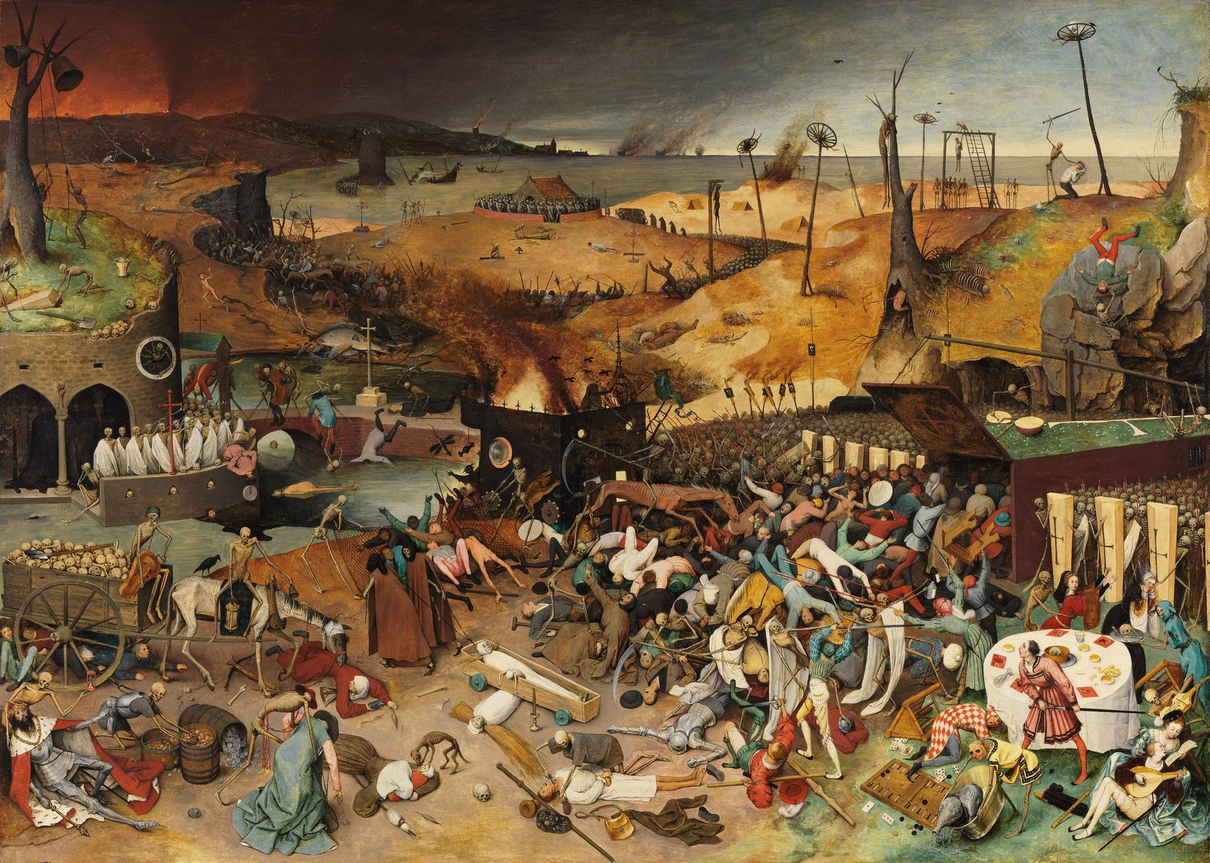
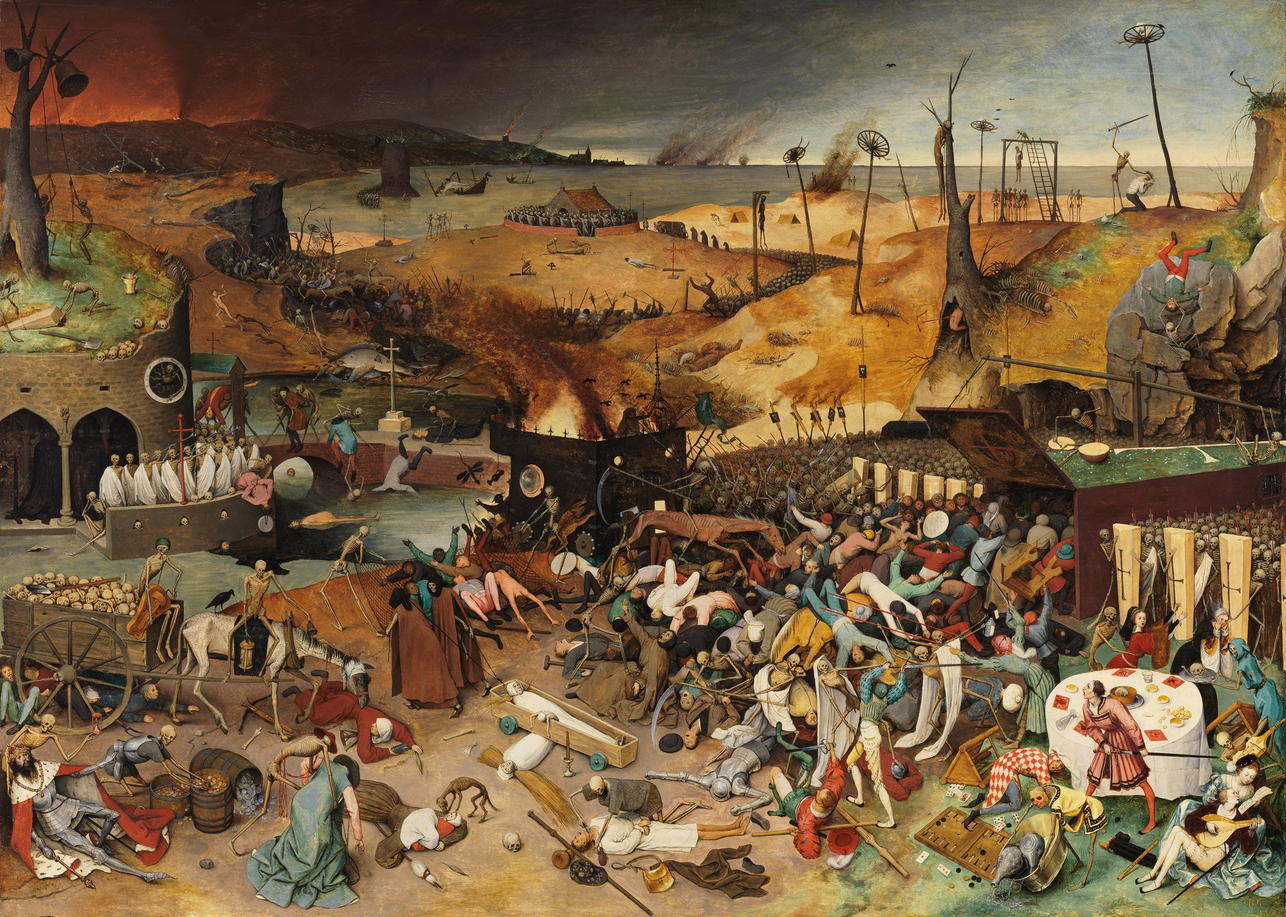
Full-resolution pieces: larger source pictures and native-resolution piece rendering when zoomed
- 27 paintings replaced with 2400-2560px versions, 3 Canva scenes replaced with 2x upscaled versions
- Overview cache sized to the screen; native-resolution pieces built on demand (bounded LRU) when zoomed in

Claude-Session: https://claude.ai/code/session_01X4jKmC36k778ncv5ZPyc4q

diff --git a/public/index.html b/public/index.html
@@ -218,7 +218,7 @@ const CATS=[
   {id:'fantasy',label:'Fantasy'},
   {id:'fairytales',label:'Fairy tales'},
   {id:'landscapes',label:'Landscapes'}];
-const IMAGES=[{"cat": "halloween", "slug": "haunted-village", "title": "Haunted Hollow Village", "artist": "Original art · made with Canva AI", "year": "", "w": 1456, "h": 1088, "page": "", "isNew": true}, {"cat": "halloween", "slug": "monster-ball", "title": "The Monster Ball", "artist": "Original art · made with Canva AI", "year": "", "w": 1456, "h": 1088, "page": "", "isNew": true}, {"cat": "halloween", "slug": "witch-kitchen", "title": "The Witch's Kitchen", "artist": "Original art · made with Canva AI", "year": "", "w": 1456, "h": 1088, "page": "", "isNew": true}, {"cat": "halloween", "slug": "midnight-graveyard", "title": "Midnight Graveyard", "artist": "Original art · made with Canva AI", "year": "", "w": 1456, "h": 1088, "page": "", "isNew": true}, {"cat": "fairytales", "slug": "fairytale-kingdom", "title": "Once Upon a Kingdom", "artist": "Original art · made with Canva AI", "year": "", "w": 1456, "h": 1088, "page": "", "isNew": true}, {"cat": "fairytales", "slug": "gingerbread-house", "title": "Hansel and Gretel's Gingerbread House", "artist": "Original art · made with Canva AI", "year": "", "w": 1456, "h": 1088, "page": "", "isNew": true}, {"cat": "christmas", "slug": "santa-workshop", "title": "Santa's Workshop", "artist": "Original art · made with Canva AI", "year": "", "w": 1456, "h": 1088, "page": "", "isNew": true}, {"cat": "christmas", "slug": "gingerbread-village", "title": "Gingerbread Village", "artist": "Original art · made with Canva AI", "year": "", "w": 1456, "h": 1088, "page": "", "isNew": true}, {"cat": "christmas", "slug": "sleigh-over-town", "title": "Christmas Eve Flight", "artist": "Original art · made with Canva AI", "year": "", "w": 1456, "h": 1088, "page": "", "isNew": true}, {"cat": "halloween", "slug": "witches-sabbath", "title": "Witches' Sabbath", "artist": "Francisco Goya", "year": "1797–98", "w": 1400, "h": 2000, "page": "https://commons.wikimedia.org/wiki/File:Francisco_de_Goya_y_Lucientes_-_Witches_Sabbath_-_Google_Art_Project.jpg", "isNew": false}, {"cat": "halloween", "slug": "triumph-of-death", "title": "The Triumph of Death", "artist": "Pieter Bruegel the Elder", "year": "c. 1562", "w": 2000, "h": 1427, "page": "https://commons.wikimedia.org/wiki/File:The_Triumph_of_Death_by_Pieter_Bruegel_the_Elder.jpg", "isNew": false}, {"cat": "halloween", "slug": "isle-of-the-dead", "title": "Isle of the Dead", "artist": "Arnold Böcklin", "year": "1880", "w": 2000, "h": 1426, "page": "https://commons.wikimedia.org/wiki/File:Arnold_B%C3%B6cklin_-_Die_Toteninsel_I_(Basel,_Kunstmuseum).jpg", "isNew": false}, {"cat": "halloween", "slug": "the-nightmare", "title": "The Nightmare", "artist": "Henry Fuseli", "year": "1781", "w": 1920, "h": 1556, "page": "https://commons.wikimedia.org/wiki/File:John_Henry_Fuseli_-_The_Nightmare.JPG", "isNew": false}, {"cat": "halloween", "slug": "flight-of-witches", "title": "Flight of the Witches", "artist": "Francisco Goya", "year": "1798", "w": 1401, "h": 2000, "page": "https://commons.wikimedia.org/wiki/File:Francisco_de_Goya_-_Vuelo_de_brujas_(1798).jpg", "isNew": false}, {"cat": "holiday", "slug": "ice-skaters", "title": "Ice Scene", "artist": "Hendrick Avercamp", "year": "1610", "w": 2000, "h": 1003, "page": "https://commons.wikimedia.org/wiki/File:Hendrick_Avercamp_-_Ice_Scene_-_785_-_Rijksmuseum.jpg", "isNew": false}, {"cat": "holiday", "slug": "st-nicholas", "title": "The Feast of St. Nicholas", "artist": "Jan Steen", "year": "c. 1663–65", "w": 1706, "h": 2000, "page": "https://commons.wikimedia.org/wiki/File:Jan_Havicksz._Steen_%E2%80%93_Het_Sint-Nicolaasfeest_%E2%80%93_Google_Art_Project.jpg", "isNew": false}, {"cat": "holiday", "slug": "thanksgiving", "title": "Thanksgiving at Plymouth", "artist": "Jennie Augusta Brownscombe", "year": "1925", "w": 2000, "h": 1507, "page": "https://commons.wikimedia.org/wiki/File:Thanksgiving_at_Plymouth,_1925,_Brownscombe.jpg", "isNew": false}, {"cat": "holiday", "slug": "childrens-games", "title": "Children's Games", "artist": "Pieter Bruegel the Elder", "year": "1560", "w": 2000, "h": 1453, "page": "https://commons.wikimedia.org/wiki/File:Pieter_Bruegel_the_Elder_-_Children%E2%80%99s_Games_-_Google_Art_Project.jpg", "isNew": false}, {"cat": "christmas", "slug": "hunters-in-snow", "title": "Hunters in the Snow", "artist": "Pieter Bruegel the Elder", "year": "1565", "w": 2000, "h": 1423, "page": "https://commons.wikimedia.org/wiki/File:Pieter_Bruegel_the_Elder_-_Hunters_in_the_Snow_(Winter)_-_Google_Art_Project.jpg", "isNew": false}, {"cat": "christmas", "slug": "bethlehem", "title": "The Census at Bethlehem", "artist": "Pieter Bruegel the Elder", "year": "1566", "w": 2000, "h": 1386, "page": "https://commons.wikimedia.org/wiki/File:Pieter_Bruegel_the_Elder_-_The_Numbering_at_Bethlehem_-_Google_Art_Project.jpg", "isNew": false}, {"cat": "christmas", "slug": "merry-christmas", "title": "Merry Christmas (Glade jul)", "artist": "Viggo Johansen", "year": "1891", "w": 2000, "h": 1611, "page": "https://commons.wikimedia.org/wiki/File:Viggo_Johansen_-_Glade_jul_-_1891.jpg", "isNew": false}, {"cat": "christmas", "slug": "christmas-eve", "title": "Christmas Eve", "artist": "Carl Larsson", "year": "1904–05", "w": 2000, "h": 1373, "page": "https://commons.wikimedia.org/wiki/File:Julaftonen_av_Carl_Larsson_1904.jpg", "isNew": false}, {"cat": "christmas", "slug": "mystic-nativity", "title": "Mystic Nativity", "artist": "Sandro Botticelli", "year": "c. 1500", "w": 1384, "h": 2000, "page": "https://commons.wikimedia.org/wiki/File:Mystic_Nativity_by_Sandro_Botticelli.jpg", "isNew": false}, {"cat": "paintings", "slug": "starry-night", "title": "The Starry Night", "artist": "Vincent van Gogh", "year": "1889", "w": 2000, "h": 1584, "page": "https://commons.wikimedia.org/wiki/File:Van_Gogh_-_Starry_Night_-_Google_Art_Project.jpg", "isNew": false}, {"cat": "paintings", "slug": "great-wave", "title": "The Great Wave off Kanagawa", "artist": "After Katsushika Hokusai", "year": "c. 1830–32 design", "w": 2000, "h": 1380, "page": "https://commons.wikimedia.org/wiki/File:The_Great_Wave_off_Kanagawa.jpg", "isNew": false}, {"cat": "paintings", "slug": "grande-jatte", "title": "A Sunday on La Grande Jatte", "artist": "Georges Seurat", "year": "1884–86", "w": 2000, "h": 1332, "page": "https://commons.wikimedia.org/wiki/File:Georges_Seurat_-_A_Sunday_on_La_Grande_Jatte_--_1884_-_Google_Art_Project.jpg", "isNew": false}, {"cat": "paintings", "slug": "the-kiss", "title": "The Kiss", "artist": "Gustav Klimt", "year": "1907–08", "w": 1993, "h": 2000, "page": "https://commons.wikimedia.org/wiki/File:The_Kiss_-_Gustav_Klimt_-_Google_Cultural_Institute.jpg", "isNew": false}, {"cat": "paintings", "slug": "water-lilies", "title": "Water Lilies", "artist": "Claude Monet", "year": "1916", "w": 1920, "h": 1923, "page": "https://commons.wikimedia.org/wiki/File:Claude_Monet_-_Water_Lilies_-_Google_Art_Project_(462013).jpg", "isNew": false}, {"cat": "paintings", "slug": "cafe-terrace", "title": "Café Terrace at Night", "artist": "Vincent van Gogh", "year": "1888", "w": 1594, "h": 2000, "page": "https://commons.wikimedia.org/wiki/File:Vincent_Willem_van_Gogh_-_Cafe_Terrace_at_Night_(Yorck).jpg", "isNew": false}, {"cat": "paintings", "slug": "boating-party", "title": "Luncheon of the Boating Party", "artist": "Pierre-Auguste Renoir", "year": "1880–81", "w": 2000, "h": 1482, "page": "https://commons.wikimedia.org/wiki/File:Pierre-Auguste_Renoir_-_Luncheon_of_the_Boating_Party_-_Google_Art_Project.jpg", "isNew": false}, {"cat": "fantasy", "slug": "earthly-delights", "title": "The Garden of Earthly Delights", "artist": "Hieronymus Bosch", "year": "c. 1480–1505", "w": 2000, "h": 1138, "page": "https://commons.wikimedia.org/wiki/File:The_Garden_of_earthly_delights.jpg", "isNew": false}, {"cat": "fantasy", "slug": "titans-goblet", "title": "The Titan's Goblet", "artist": "Thomas Cole", "year": "1833", "w": 1678, "h": 2000, "page": "https://commons.wikimedia.org/wiki/File:The_Titan%27s_Goblet_MET_DP-12799-001.jpg", "isNew": false}, {"cat": "fantasy", "slug": "midsummer-eve", "title": "Midsummer Eve", "artist": "Edward Robert Hughes", "year": "c. 1908", "w": 1333, "h": 2000, "page": "https://commons.wikimedia.org/wiki/File:Midsummer_Eve_-_Edward_Robert_Hughes_(1908).jpg", "isNew": false}, {"cat": "fantasy", "slug": "bogatyrs", "title": "Bogatyrs", "artist": "Viktor Vasnetsov", "year": "1898", "w": 1920, "h": 1234, "page": "https://commons.wikimedia.org/wiki/File:1898_Vasnetsov_Bogatyrs_anagoria.JPG", "isNew": false}, {"cat": "fantasy", "slug": "fairy-feller", "title": "The Fairy Feller's Master-Stroke", "artist": "Richard Dadd", "year": "c. 1855–64", "w": 1440, "h": 2000, "page": "https://commons.wikimedia.org/wiki/File:Richard_Dadd_-_The_Fairy_Feller%27s_Master-Stroke_-_Google_Art_Project.jpg", "isNew": false}, {"cat": "fantasy", "slug": "voyage-of-life", "title": "The Voyage of Life: Childhood", "artist": "Thomas Cole", "year": "1842", "w": 2000, "h": 1351, "page": "https://commons.wikimedia.org/wiki/File:Thomas_Cole_-_The_Voyage_of_Life_Childhood,_1842_(National_Gallery_of_Art).jpg", "isNew": false}, {"cat": "fantasy", "slug": "wrath", "title": "The Great Day of His Wrath", "artist": "John Martin", "year": "c. 1851–53", "w": 2000, "h": 1290, "page": "https://commons.wikimedia.org/wiki/File:John_Martin_-_The_Great_Day_of_His_Wrath_-_Google_Art_Project.jpg", "isNew": false}, {"cat": "landscapes", "slug": "sierra-nevada", "title": "Among the Sierra Nevada, California", "artist": "Albert Bierstadt", "year": "1868", "w": 1920, "h": 1148, "page": "https://commons.wikimedia.org/wiki/File:Albert_Bierstadt_-_Among_the_Sierra_Nevada,_California_-_Google_Art_Project.jpg", "isNew": false}, {"cat": "landscapes", "slug": "landers-peak", "title": "The Rocky Mountains, Lander's Peak", "artist": "Albert Bierstadt", "year": "1863", "w": 1920, "h": 1150, "page": "https://commons.wikimedia.org/wiki/File:Albert_Bierstadt_-_The_Rocky_Mountains,_Lander%27s_Peak.jpg", "isNew": false}, {"cat": "landscapes", "slug": "heart-of-andes", "title": "Heart of the Andes", "artist": "Frederic Edwin Church", "year": "1859", "w": 1920, "h": 1051, "page": "https://commons.wikimedia.org/wiki/File:Church_Heart_of_the_Andes.jpg", "isNew": false}, {"cat": "landscapes", "slug": "yellowstone", "title": "The Grand Canyon of the Yellowstone", "artist": "Thomas Moran", "year": "1872", "w": 1496, "h": 876, "page": "https://commons.wikimedia.org/wiki/File:Smithsonian-Moran-The_Grand_Canyon_of_the_Yellowstone-2283.jpg", "isNew": false}, {"cat": "landscapes", "slug": "the-oxbow", "title": "The Oxbow", "artist": "Thomas Cole", "year": "1836", "w": 1920, "h": 1304, "page": "https://commons.wikimedia.org/wiki/File:Cole_Thomas_The_Oxbow_(The_Connecticut_River_near_Northampton_1836).jpg", "isNew": false}, {"cat": "landscapes", "slug": "pine-forest", "title": "Morning in a Pine Forest", "artist": "Ivan Shishkin and Konstantin Savitsky", "year": "1889", "w": 1920, "h": 1301, "page": "https://commons.wikimedia.org/wiki/File:Shishkin,_Ivan_-_Morning_in_a_Pine_Forest.jpg", "isNew": false}, {"cat": "landscapes", "slug": "wheat-cypresses", "title": "Wheat Field with Cypresses", "artist": "Vincent van Gogh", "year": "1889", "w": 1920, "h": 1527, "page": "https://commons.wikimedia.org/wiki/File:Vincent_van_Gogh_-_Wheat_Field_with_Cypresses_(National_Gallery_version).jpg", "isNew": false}, {"cat": "landscapes", "slug": "sea-of-fog", "title": "Wanderer above the Sea of Fog", "artist": "Caspar David Friedrich", "year": "c. 1817", "w": 1562, "h": 2000, "page": "https://commons.wikimedia.org/wiki/File:Caspar_David_Friedrich_-_Wanderer_above_the_sea_of_fog.jpg", "isNew": false}, {"cat": "fairytales", "slug": "grey-wolf", "title": "Ivan Tsarevich Riding the Grey Wolf", "artist": "Viktor Vasnetsov", "year": "1889", "w": 1520, "h": 2000, "page": "https://commons.wikimedia.org/wiki/File:Moscou,_galerie_Tretiakov_Ivan-Tsarevitch_at_the_Grey_Wolf_(Vasnetsov).jpg", "isNew": false}, {"cat": "fairytales", "slug": "flying-carpet", "title": "The Flying Carpet", "artist": "Viktor Vasnetsov", "year": "1880", "w": 1920, "h": 1057, "page": "https://commons.wikimedia.org/wiki/File:Vasnetsov_samolet.jpg", "isNew": false}, {"cat": "fairytales", "slug": "sleeping-princess", "title": "The Sleeping Princess", "artist": "Viktor Vasnetsov", "year": "1900–26", "w": 1920, "h": 898, "page": "https://commons.wikimedia.org/wiki/File:%D0%A1%D0%BF%D1%8F%D1%89%D0%B0%D1%8F_%D1%86%D0%B0%D1%80%D0%B5%D0%B2%D0%BD%D0%B0.jpg", "isNew": false}, {"cat": "fairytales", "slug": "tuvstarr", "title": "Princess Tuvstarr Gazing into the Forest Pool", "artist": "John Bauer", "year": "1913", "w": 1920, "h": 1936, "page": "https://commons.wikimedia.org/wiki/File:%C3%84nnu_sitter_Tuvstarr_kvar_och_ser_ner_i_vattnet.jpg", "isNew": false}];
+const IMAGES=[{"cat": "halloween", "slug": "haunted-village", "title": "Haunted Hollow Village", "artist": "Original art · made with Canva AI", "year": "", "w": 2912, "h": 2176, "page": "", "isNew": true}, {"cat": "halloween", "slug": "monster-ball", "title": "The Monster Ball", "artist": "Original art · made with Canva AI", "year": "", "w": 1456, "h": 1088, "page": "", "isNew": true}, {"cat": "halloween", "slug": "witch-kitchen", "title": "The Witch's Kitchen", "artist": "Original art · made with Canva AI", "year": "", "w": 1456, "h": 1088, "page": "", "isNew": true}, {"cat": "halloween", "slug": "midnight-graveyard", "title": "Midnight Graveyard", "artist": "Original art · made with Canva AI", "year": "", "w": 1456, "h": 1088, "page": "", "isNew": true}, {"cat": "fairytales", "slug": "fairytale-kingdom", "title": "Once Upon a Kingdom", "artist": "Original art · made with Canva AI", "year": "", "w": 2912, "h": 2176, "page": "", "isNew": true}, {"cat": "fairytales", "slug": "gingerbread-house", "title": "Hansel and Gretel's Gingerbread House", "artist": "Original art · made with Canva AI", "year": "", "w": 2912, "h": 2176, "page": "", "isNew": true}, {"cat": "christmas", "slug": "santa-workshop", "title": "Santa's Workshop", "artist": "Original art · made with Canva AI", "year": "", "w": 1456, "h": 1088, "page": "", "isNew": true}, {"cat": "christmas", "slug": "gingerbread-village", "title": "Gingerbread Village", "artist": "Original art · made with Canva AI", "year": "", "w": 1456, "h": 1088, "page": "", "isNew": true}, {"cat": "christmas", "slug": "sleigh-over-town", "title": "Christmas Eve Flight", "artist": "Original art · made with Canva AI", "year": "", "w": 1456, "h": 1088, "page": "", "isNew": true}, {"cat": "halloween", "slug": "witches-sabbath", "title": "Witches' Sabbath", "artist": "Francisco Goya", "year": "1797–98", "w": 1792, "h": 2560, "page": "https://commons.wikimedia.org/wiki/File:Francisco_de_Goya_y_Lucientes_-_Witches_Sabbath_-_Google_Art_Project.jpg", "isNew": false}, {"cat": "halloween", "slug": "triumph-of-death", "title": "The Triumph of Death", "artist": "Pieter Bruegel the Elder", "year": "c. 1562", "w": 2126, "h": 1517, "page": "https://commons.wikimedia.org/wiki/File:The_Triumph_of_Death_by_Pieter_Bruegel_the_Elder.jpg", "isNew": false}, {"cat": "halloween", "slug": "isle-of-the-dead", "title": "Isle of the Dead", "artist": "Arnold Böcklin", "year": "1880", "w": 2560, "h": 1825, "page": "https://commons.wikimedia.org/wiki/File:Arnold_B%C3%B6cklin_-_Die_Toteninsel_I_(Basel,_Kunstmuseum).jpg", "isNew": false}, {"cat": "halloween", "slug": "the-nightmare", "title": "The Nightmare", "artist": "Henry Fuseli", "year": "1781", "w": 1920, "h": 1556, "page": "https://commons.wikimedia.org/wiki/File:John_Henry_Fuseli_-_The_Nightmare.JPG", "isNew": false}, {"cat": "halloween", "slug": "flight-of-witches", "title": "Flight of the Witches", "artist": "Francisco Goya", "year": "1798", "w": 1681, "h": 2400, "page": "https://commons.wikimedia.org/wiki/File:Francisco_de_Goya_-_Vuelo_de_brujas_(1798).jpg", "isNew": false}, {"cat": "holiday", "slug": "ice-skaters", "title": "Ice Scene", "artist": "Hendrick Avercamp", "year": "1610", "w": 2400, "h": 1204, "page": "https://commons.wikimedia.org/wiki/File:Hendrick_Avercamp_-_Ice_Scene_-_785_-_Rijksmuseum.jpg", "isNew": false}, {"cat": "holiday", "slug": "st-nicholas", "title": "The Feast of St. Nicholas", "artist": "Jan Steen", "year": "c. 1663–65", "w": 2047, "h": 2400, "page": "https://commons.wikimedia.org/wiki/File:Jan_Havicksz._Steen_%E2%80%93_Het_Sint-Nicolaasfeest_%E2%80%93_Google_Art_Project.jpg", "isNew": false}, {"cat": "holiday", "slug": "thanksgiving", "title": "Thanksgiving at Plymouth", "artist": "Jennie Augusta Brownscombe", "year": "1925", "w": 2400, "h": 1808, "page": "https://commons.wikimedia.org/wiki/File:Thanksgiving_at_Plymouth,_1925,_Brownscombe.jpg", "isNew": false}, {"cat": "holiday", "slug": "childrens-games", "title": "Children's Games", "artist": "Pieter Bruegel the Elder", "year": "1560", "w": 2400, "h": 1743, "page": "https://commons.wikimedia.org/wiki/File:Pieter_Bruegel_the_Elder_-_Children%E2%80%99s_Games_-_Google_Art_Project.jpg", "isNew": false}, {"cat": "christmas", "slug": "hunters-in-snow", "title": "Hunters in the Snow", "artist": "Pieter Bruegel the Elder", "year": "1565", "w": 2400, "h": 1708, "page": "https://commons.wikimedia.org/wiki/File:Pieter_Bruegel_the_Elder_-_Hunters_in_the_Snow_(Winter)_-_Google_Art_Project.jpg", "isNew": false}, {"cat": "christmas", "slug": "bethlehem", "title": "The Census at Bethlehem", "artist": "Pieter Bruegel the Elder", "year": "1566", "w": 2400, "h": 1663, "page": "https://commons.wikimedia.org/wiki/File:Pieter_Bruegel_the_Elder_-_The_Numbering_at_Bethlehem_-_Google_Art_Project.jpg", "isNew": false}, {"cat": "christmas", "slug": "merry-christmas", "title": "Merry Christmas (Glade jul)", "artist": "Viggo Johansen", "year": "1891", "w": 2400, "h": 1933, "page": "https://commons.wikimedia.org/wiki/File:Viggo_Johansen_-_Glade_jul_-_1891.jpg", "isNew": false}, {"cat": "christmas", "slug": "christmas-eve", "title": "Christmas Eve", "artist": "Carl Larsson", "year": "1904–05", "w": 2400, "h": 1648, "page": "https://commons.wikimedia.org/wiki/File:Julaftonen_av_Carl_Larsson_1904.jpg", "isNew": false}, {"cat": "christmas", "slug": "mystic-nativity", "title": "Mystic Nativity", "artist": "Sandro Botticelli", "year": "c. 1500", "w": 1661, "h": 2400, "page": "https://commons.wikimedia.org/wiki/File:Mystic_Nativity_by_Sandro_Botticelli.jpg", "isNew": false}, {"cat": "paintings", "slug": "starry-night", "title": "The Starry Night", "artist": "Vincent van Gogh", "year": "1889", "w": 2400, "h": 1901, "page": "https://commons.wikimedia.org/wiki/File:Van_Gogh_-_Starry_Night_-_Google_Art_Project.jpg", "isNew": false}, {"cat": "paintings", "slug": "great-wave", "title": "The Great Wave off Kanagawa", "artist": "After Katsushika Hokusai", "year": "c. 1830–32 design", "w": 2400, "h": 1656, "page": "https://commons.wikimedia.org/wiki/File:The_Great_Wave_off_Kanagawa.jpg", "isNew": false}, {"cat": "paintings", "slug": "grande-jatte", "title": "A Sunday on La Grande Jatte", "artist": "Georges Seurat", "year": "1884–86", "w": 2400, "h": 1598, "page": "https://commons.wikimedia.org/wiki/File:Georges_Seurat_-_A_Sunday_on_La_Grande_Jatte_--_1884_-_Google_Art_Project.jpg", "isNew": false}, {"cat": "paintings", "slug": "the-kiss", "title": "The Kiss", "artist": "Gustav Klimt", "year": "1907–08", "w": 2392, "h": 2400, "page": "https://commons.wikimedia.org/wiki/File:The_Kiss_-_Gustav_Klimt_-_Google_Cultural_Institute.jpg", "isNew": false}, {"cat": "paintings", "slug": "water-lilies", "title": "Water Lilies", "artist": "Claude Monet", "year": "1916", "w": 1920, "h": 1923, "page": "https://commons.wikimedia.org/wiki/File:Claude_Monet_-_Water_Lilies_-_Google_Art_Project_(462013).jpg", "isNew": false}, {"cat": "paintings", "slug": "cafe-terrace", "title": "Café Terrace at Night", "artist": "Vincent van Gogh", "year": "1888", "w": 1913, "h": 2400, "page": "https://commons.wikimedia.org/wiki/File:Vincent_Willem_van_Gogh_-_Cafe_Terrace_at_Night_(Yorck).jpg", "isNew": false}, {"cat": "paintings", "slug": "boating-party", "title": "Luncheon of the Boating Party", "artist": "Pierre-Auguste Renoir", "year": "1880–81", "w": 2400, "h": 1778, "page": "https://commons.wikimedia.org/wiki/File:Pierre-Auguste_Renoir_-_Luncheon_of_the_Boating_Party_-_Google_Art_Project.jpg", "isNew": false}, {"cat": "fantasy", "slug": "earthly-delights", "title": "The Garden of Earthly Delights", "artist": "Hieronymus Bosch", "year": "c. 1480–1505", "w": 2400, "h": 1366, "page": "https://commons.wikimedia.org/wiki/File:The_Garden_of_earthly_delights.jpg", "isNew": false}, {"cat": "fantasy", "slug": "titans-goblet", "title": "The Titan's Goblet", "artist": "Thomas Cole", "year": "1833", "w": 1920, "h": 2288, "page": "https://commons.wikimedia.org/wiki/File:The_Titan%27s_Goblet_MET_DP-12799-001.jpg", "isNew": false}, {"cat": "fantasy", "slug": "midsummer-eve", "title": "Midsummer Eve", "artist": "Edward Robert Hughes", "year": "c. 1908", "w": 1600, "h": 2400, "page": "https://commons.wikimedia.org/wiki/File:Midsummer_Eve_-_Edward_Robert_Hughes_(1908).jpg", "isNew": false}, {"cat": "fantasy", "slug": "bogatyrs", "title": "Bogatyrs", "artist": "Viktor Vasnetsov", "year": "1898", "w": 1920, "h": 1234, "page": "https://commons.wikimedia.org/wiki/File:1898_Vasnetsov_Bogatyrs_anagoria.JPG", "isNew": false}, {"cat": "fantasy", "slug": "fairy-feller", "title": "The Fairy Feller's Master-Stroke", "artist": "Richard Dadd", "year": "c. 1855–64", "w": 1728, "h": 2400, "page": "https://commons.wikimedia.org/wiki/File:Richard_Dadd_-_The_Fairy_Feller%27s_Master-Stroke_-_Google_Art_Project.jpg", "isNew": false}, {"cat": "fantasy", "slug": "voyage-of-life", "title": "The Voyage of Life: Childhood", "artist": "Thomas Cole", "year": "1842", "w": 2400, "h": 1621, "page": "https://commons.wikimedia.org/wiki/File:Thomas_Cole_-_The_Voyage_of_Life_Childhood,_1842_(National_Gallery_of_Art).jpg", "isNew": false}, {"cat": "fantasy", "slug": "wrath", "title": "The Great Day of His Wrath", "artist": "John Martin", "year": "c. 1851–53", "w": 2400, "h": 1548, "page": "https://commons.wikimedia.org/wiki/File:John_Martin_-_The_Great_Day_of_His_Wrath_-_Google_Art_Project.jpg", "isNew": false}, {"cat": "landscapes", "slug": "sierra-nevada", "title": "Among the Sierra Nevada, California", "artist": "Albert Bierstadt", "year": "1868", "w": 1920, "h": 1148, "page": "https://commons.wikimedia.org/wiki/File:Albert_Bierstadt_-_Among_the_Sierra_Nevada,_California_-_Google_Art_Project.jpg", "isNew": false}, {"cat": "landscapes", "slug": "landers-peak", "title": "The Rocky Mountains, Lander's Peak", "artist": "Albert Bierstadt", "year": "1863", "w": 1920, "h": 1150, "page": "https://commons.wikimedia.org/wiki/File:Albert_Bierstadt_-_The_Rocky_Mountains,_Lander%27s_Peak.jpg", "isNew": false}, {"cat": "landscapes", "slug": "heart-of-andes", "title": "Heart of the Andes", "artist": "Frederic Edwin Church", "year": "1859", "w": 1920, "h": 1051, "page": "https://commons.wikimedia.org/wiki/File:Church_Heart_of_the_Andes.jpg", "isNew": false}, {"cat": "landscapes", "slug": "yellowstone", "title": "The Grand Canyon of the Yellowstone", "artist": "Thomas Moran", "year": "1872", "w": 1496, "h": 876, "page": "https://commons.wikimedia.org/wiki/File:Smithsonian-Moran-The_Grand_Canyon_of_the_Yellowstone-2283.jpg", "isNew": false}, {"cat": "landscapes", "slug": "the-oxbow", "title": "The Oxbow", "artist": "Thomas Cole", "year": "1836", "w": 1920, "h": 1304, "page": "https://commons.wikimedia.org/wiki/File:Cole_Thomas_The_Oxbow_(The_Connecticut_River_near_Northampton_1836).jpg", "isNew": false}, {"cat": "landscapes", "slug": "pine-forest", "title": "Morning in a Pine Forest", "artist": "Ivan Shishkin and Konstantin Savitsky", "year": "1889", "w": 1920, "h": 1301, "page": "https://commons.wikimedia.org/wiki/File:Shishkin,_Ivan_-_Morning_in_a_Pine_Forest.jpg", "isNew": false}, {"cat": "landscapes", "slug": "wheat-cypresses", "title": "Wheat Field with Cypresses", "artist": "Vincent van Gogh", "year": "1889", "w": 1920, "h": 1527, "page": "https://commons.wikimedia.org/wiki/File:Vincent_van_Gogh_-_Wheat_Field_with_Cypresses_(National_Gallery_version).jpg", "isNew": false}, {"cat": "landscapes", "slug": "sea-of-fog", "title": "Wanderer above the Sea of Fog", "artist": "Caspar David Friedrich", "year": "c. 1817", "w": 1874, "h": 2400, "page": "https://commons.wikimedia.org/wiki/File:Caspar_David_Friedrich_-_Wanderer_above_the_sea_of_fog.jpg", "isNew": false}, {"cat": "fairytales", "slug": "grey-wolf", "title": "Ivan Tsarevich Riding the Grey Wolf", "artist": "Viktor Vasnetsov", "year": "1889", "w": 1824, "h": 2400, "page": "https://commons.wikimedia.org/wiki/File:Moscou,_galerie_Tretiakov_Ivan-Tsarevitch_at_the_Grey_Wolf_(Vasnetsov).jpg", "isNew": false}, {"cat": "fairytales", "slug": "flying-carpet", "title": "The Flying Carpet", "artist": "Viktor Vasnetsov", "year": "1880", "w": 1920, "h": 1057, "page": "https://commons.wikimedia.org/wiki/File:Vasnetsov_samolet.jpg", "isNew": false}, {"cat": "fairytales", "slug": "sleeping-princess", "title": "The Sleeping Princess", "artist": "Viktor Vasnetsov", "year": "1900–26", "w": 1920, "h": 898, "page": "https://commons.wikimedia.org/wiki/File:%D0%A1%D0%BF%D1%8F%D1%89%D0%B0%D1%8F_%D1%86%D0%B0%D1%80%D0%B5%D0%B2%D0%BD%D0%B0.jpg", "isNew": false}, {"cat": "fairytales", "slug": "tuvstarr", "title": "Princess Tuvstarr Gazing into the Forest Pool", "artist": "John Bauer", "year": "1913", "w": 1920, "h": 1936, "page": "https://commons.wikimedia.org/wiki/File:%C3%84nnu_sitter_Tuvstarr_kvar_och_ser_ner_i_vattnet.jpg", "isNew": false}];
 const SIZES=[500,750,1000];
 const $=id=>document.getElementById(id);
 
@@ -388,8 +388,10 @@ async function openPuzzle(img,n){
   // vE uses normal (-1,0) via (-uy,ux) -> fine, shape is shared by both neighbours
   const pieces=[], cw=Math.ceil(pw+2*m), ch=Math.ceil(ph+2*m);
   const lw=Math.max(1,s/40);
-  // oversample the piece cache so pieces stay crisp on retina screens; cap total cache at ~20M pixels
-  const B=Math.min(2,Math.max(1,Math.sqrt(2.0e7/(count*cw*ch))));
+  // overview cache: just enough pixels for the zoomed-out view on this screen (keeps memory small on phones).
+  // Zoomed in, pieces are rebuilt on demand at the picture's native resolution (see hiCanvas).
+  const dpr=window.devicePixelRatio||1, zf=Math.min(cv.clientWidth/W,cv.clientHeight/H); // board filling the screen
+  const B=Math.min(1,Math.max(0.35,zf*dpr*1.25));
   for(let r=0;r<rows;r++)for(let c=0;c<cols;c++){
     const ox=c*pw, oy=r*ph, path=new Path2D();
     path.moveTo(0,0);
@@ -406,10 +408,10 @@ async function openPuzzle(img,n){
     g.save(); g.translate(lw*.8,lw*.8); g.strokeStyle='rgba(255,255,255,.30)'; g.stroke(path); g.restore();
     g.save(); g.translate(-lw*.8,-lw*.8); g.strokeStyle='rgba(0,0,0,.38)'; g.stroke(path); g.restore();
     g.restore();
-    pieces.push({r,c,x:0,y:0,g:0,edge:r===0||c===0||r===rows-1||c===cols-1,cv:pc,path,inTray:false});
+    pieces.push({r,c,x:0,y:0,g:0,edge:r===0||c===0||r===rows-1||c===cols-1,cv:pc,hi:null,path,inTray:false});
     if(pieces.length%120===0){ $('veilMsg').textContent=`Cutting ${fmtN(count)} pieces… ${Math.round(pieces.length/count*100)}%`; await new Promise(r=>setTimeout(r,0)); }
   }
-  P={img,n,key,W,H,cols,rows,count,pw,ph,s,m,cw,ch,lw,B,seed,im,pieces,groups:new Map(),z:[],tray:[],elapsed:0,started:performance.now(),won:false};
+  P={img,n,key,W,H,cols,rows,count,pw,ph,s,m,cw,ch,lw,B,seed,im,pieces,groups:new Map(),z:[],tray:[],hi:[],elapsed:0,started:performance.now(),won:false};
   if(okSave){
     P.elapsed=saved.t||0;
     pieces.forEach((p,i)=>{p.x=saved.p[i*2];p.y=saved.p[i*2+1];p.g=saved.g[i]});
@@ -562,14 +564,27 @@ function render(){
   if(flags.ghost){ctx.globalAlpha=dk?.22:.3;ctx.drawImage(P.im,0,0);ctx.globalAlpha=1}
   ctx.setLineDash([8/z,6/z]); ctx.lineWidth=1.5/z; ctx.strokeStyle=dk?'rgba(255,255,255,.35)':'rgba(42,33,25,.35)'; ctx.strokeRect(0,0,P.W,P.H); ctx.setLineDash([]);
   const vx0=cam.x,vy0=cam.y,vx1=cam.x+cv.clientWidth/z,vy1=cam.y+cv.clientHeight/z,{m,pw,ph,cw,ch}=P;
-  const live=z*d>P.B*1.15; // zoomed in past the cached resolution: draw straight from the full picture
+  const vis=[];
   for(const id of P.z){
     const g=P.groups.get(id); if(hiddenGroup(g)) continue;
     for(const i of g.members){const p=P.pieces[i];
       if(p.x+pw+m<vx0||p.x-m>vx1||p.y+ph+m<vy0||p.y-m>vy1) continue;
-      if(live) drawLive(ctx,p,p.x,p.y); else ctx.drawImage(p.cv,p.x-m,p.y-m,cw,ch);
+      vis.push(p);
     }
   }
+  // zoomed in past the overview cache: use native-resolution pieces (unless so many are on screen that the cache would thrash)
+  const hi=z*d>P.B*1.15&&vis.length<=HI_MAX;
+  for(const p of vis) ctx.drawImage(hi?hiCanvas(p):p.cv,p.x-m,p.y-m,cw,ch);
+}
+// Native-resolution piece, built on first use; at most HI_MAX kept (oldest dropped) so memory stays bounded.
+const HI_MAX=420;
+function hiCanvas(p){
+  if(p.hi) return p.hi;
+  const c=document.createElement('canvas'); c.width=P.cw; c.height=P.ch;
+  const g=c.getContext('2d'); g.imageSmoothingQuality='high'; g.translate(P.m,P.m); drawLive(g,p,0,0);
+  p.hi=c; P.hi.push(p);
+  if(P.hi.length>HI_MAX){const old=P.hi.shift(); old.hi=null}
+  return c;
 }
 function drawLive(g,p,x,y){
   const {lw,pw,ph}=P;
